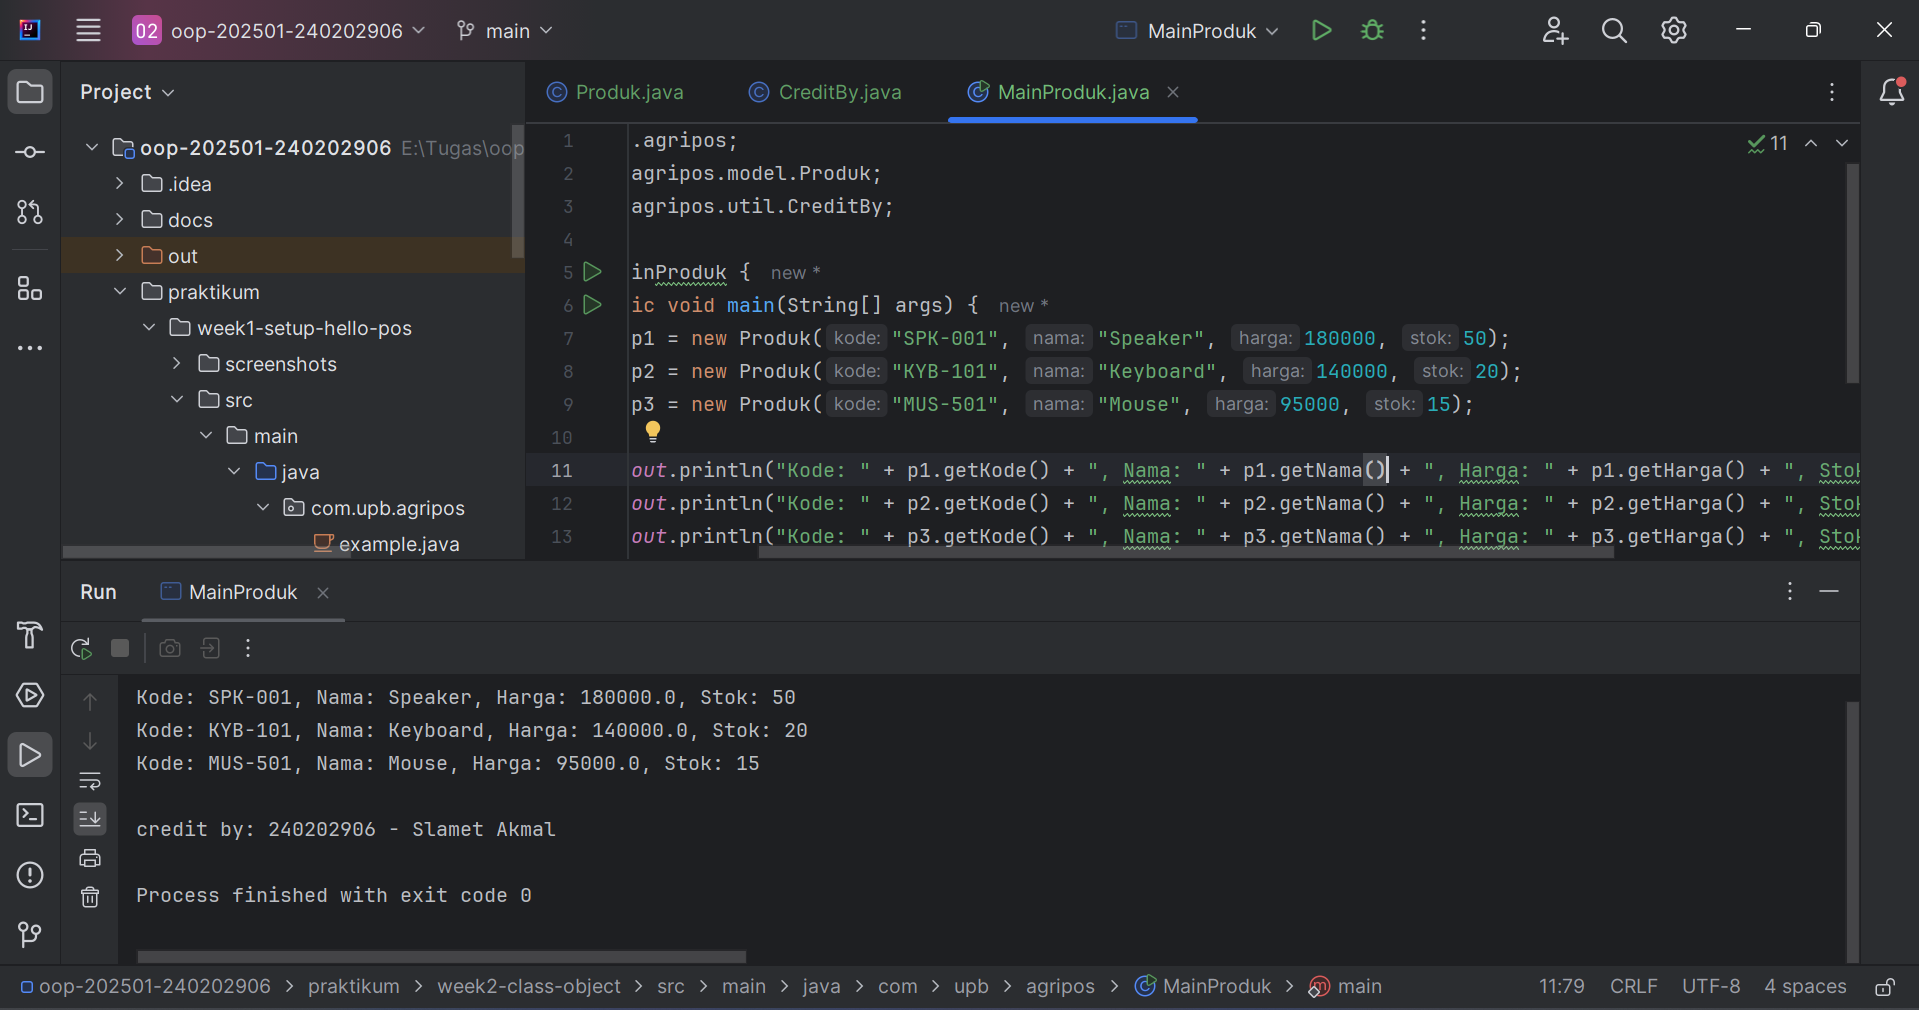
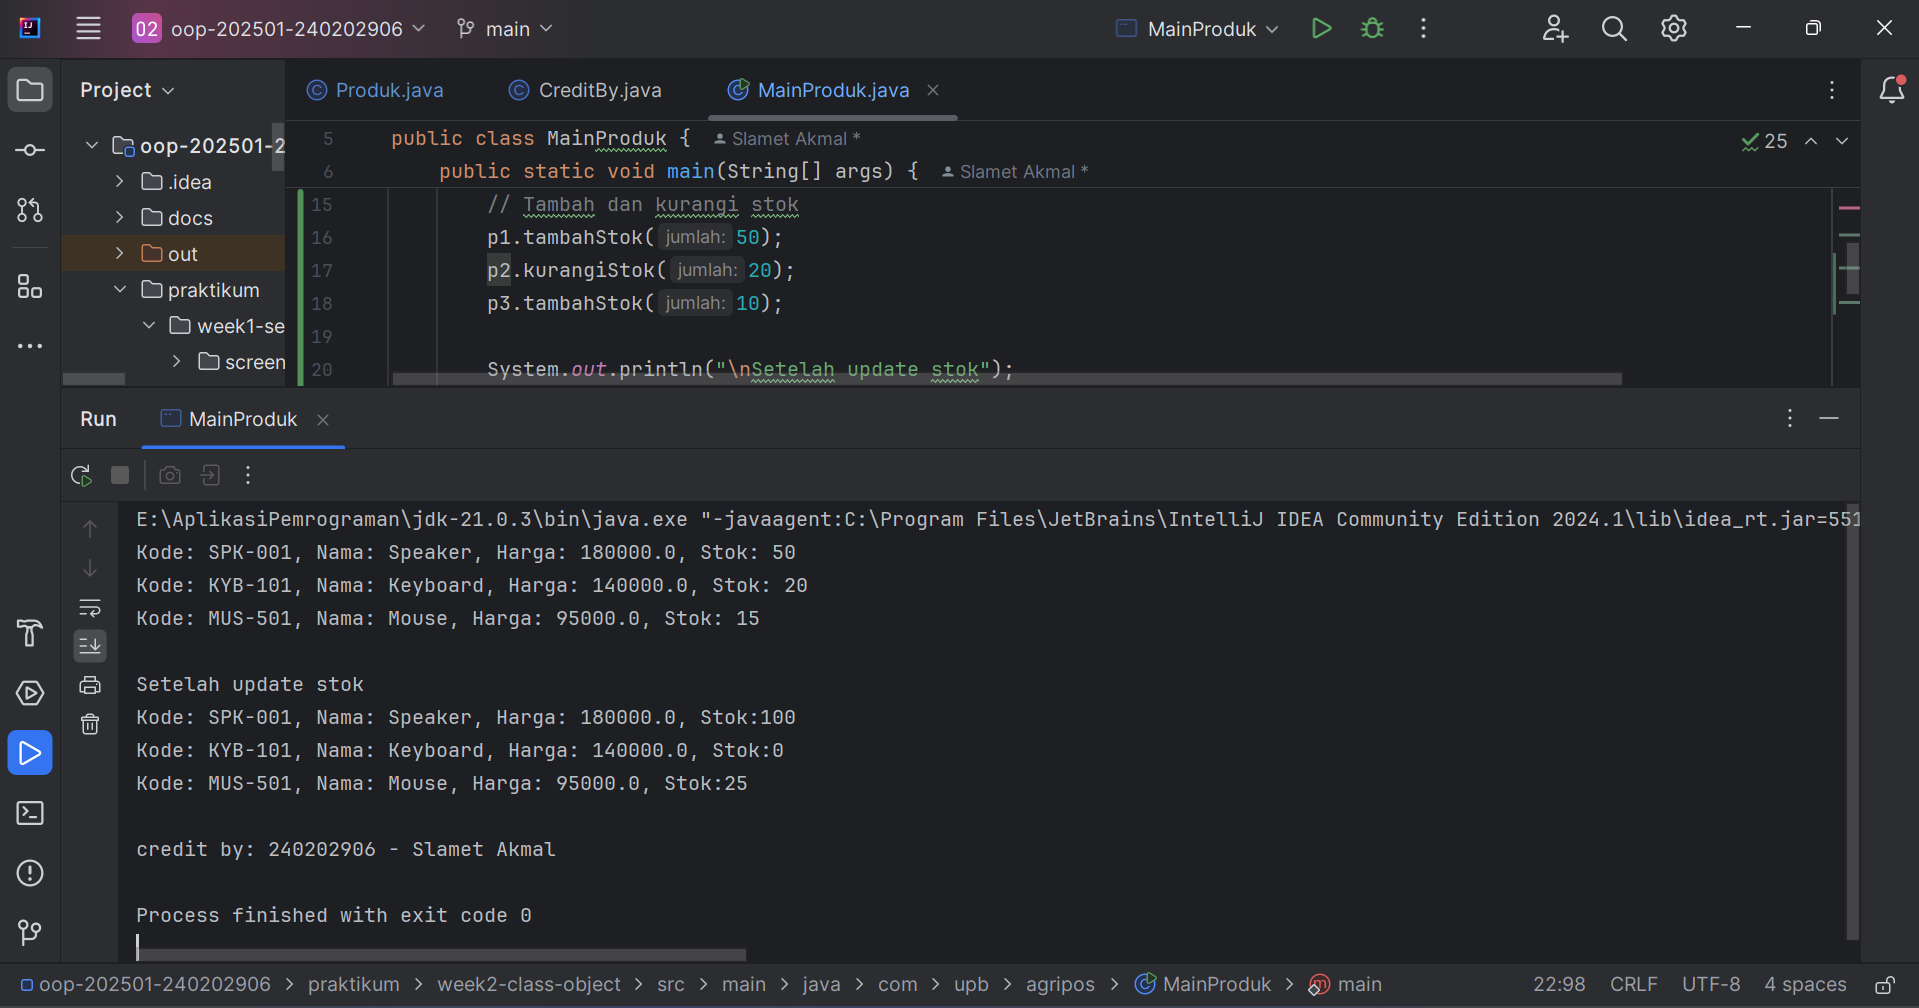
week2-class-object. update - screenshots/Hasil.png - MainProduk.java - model/Produk.java

diff --git a/praktikum/week2-class-object/src/main/java/com/upb/agripos/MainProduk.java b/praktikum/week2-class-object/src/main/java/com/upb/agripos/MainProduk.java
@@ -12,6 +12,16 @@ public class MainProduk {
         System.out.println("Kode: " + p2.getKode() + ", Nama: " + p2.getNama() + ", Harga: " + p2.getHarga() + ", Stok: " + p2.getStok());
         System.out.println("Kode: " + p3.getKode() + ", Nama: " + p3.getNama() + ", Harga: " + p3.getHarga() + ", Stok: " + p3.getStok());
 
+        // Tambah dan kurangi stok
+        p1.tambahStok(50);
+        p2.kurangiStok(20);
+        p3.tambahStok(10);
+
+        System.out.println("\nSetelah update stok");
+        System.out.println("Kode: " + p1.getKode() + ", Nama: " + p1.getNama() + ", Harga: " + p1.getHarga() + ", Stok:" + p1.getStok());
+        System.out.println("Kode: " + p2.getKode() + ", Nama: " + p2.getNama() + ", Harga: " + p2.getHarga() + ", Stok:" + p2.getStok());
+        System.out.println("Kode: " + p3.getKode() + ", Nama: " + p3.getNama() + ", Harga: " + p3.getHarga() + ", Stok:" + p3.getStok());
+
         CreditBy.print("240202906", "Slamet Akmal");
     }
 }

diff --git a/praktikum/week2-class-object/src/main/java/com/upb/agripos/model/Produk.java b/praktikum/week2-class-object/src/main/java/com/upb/agripos/model/Produk.java
@@ -44,4 +44,16 @@ public class Produk {
     public void setStok(int stok) {
         this.stok = stok;
     }
+
+    public void tambahStok(int jumlah) {
+        this.stok += jumlah;
+    }
+
+    public void kurangiStok(int jumlah) {
+        if (this.stok >= jumlah) {
+            this.stok -= jumlah;
+        } else {
+            System.out.println("Stok tidak mencukupi");
+        }
+    }
 }
